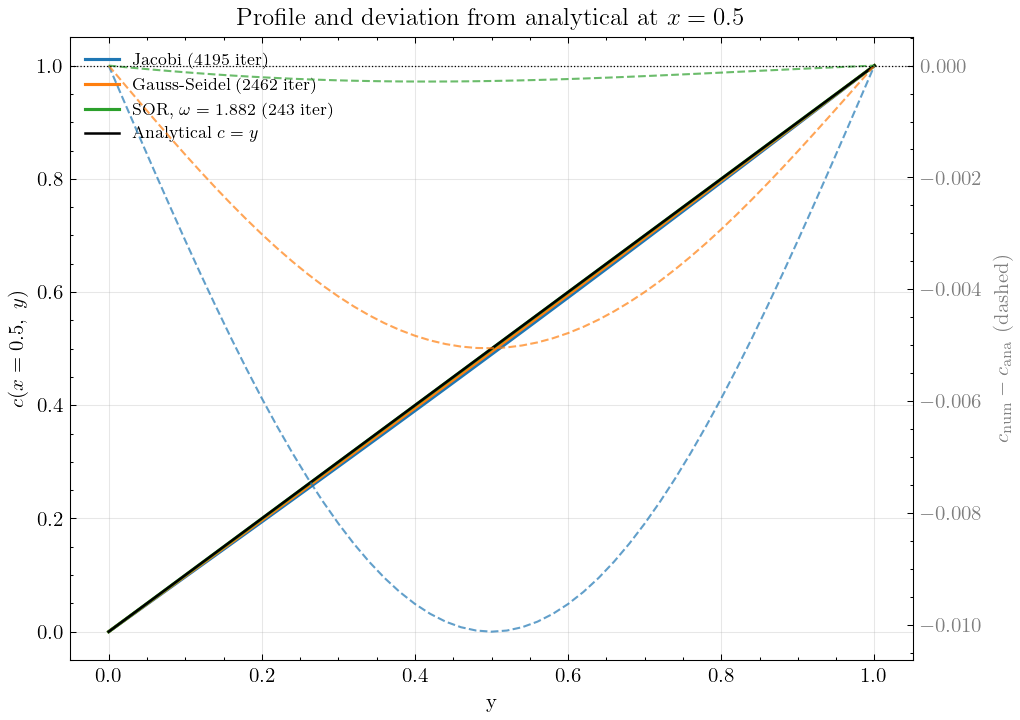
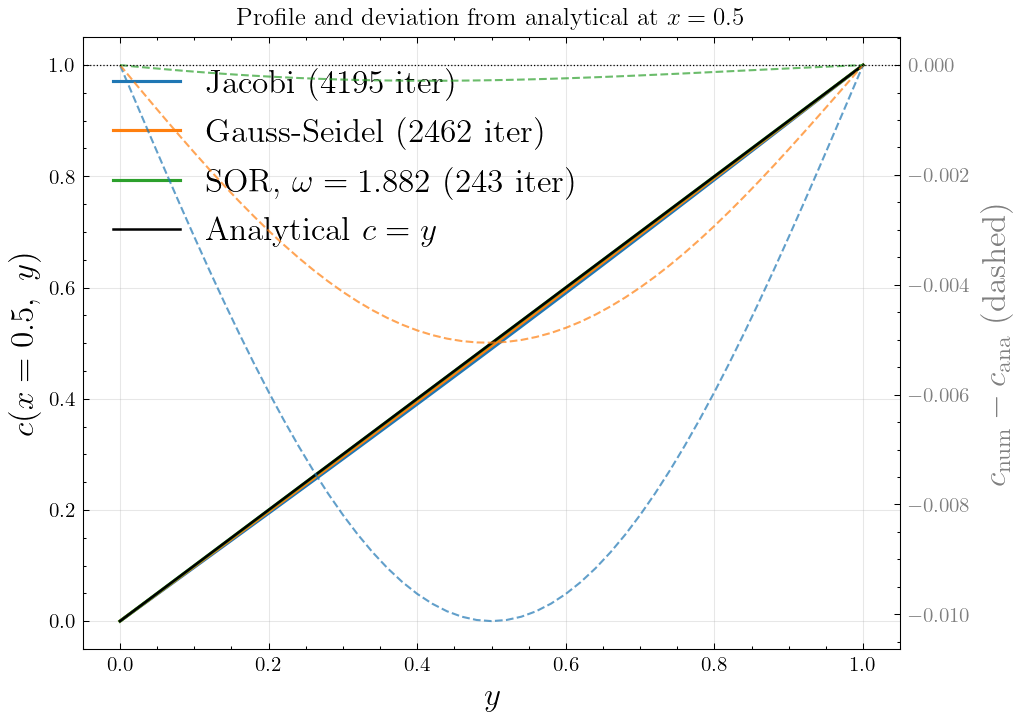
docs: improve readability

diff --git a/scripts/a1_6_iterative_methods.py b/scripts/a1_6_iterative_methods.py
@@ -110,10 +110,10 @@ ax.plot(
 ax.plot(
     grid.y, c_analytical, "--", color="black", linewidth=1.5, label="Analytical $c = y$"
 )
-ax.set_xlabel("y")
-ax.set_ylabel("c(x = 0.5, y)")
-ax.set_title("Profile comparison at x = 0.5")
-ax.legend()
+ax.set_xlabel("$y$", fontsize=16)
+ax.set_ylabel("$c(x = 0.5, y)$", fontsize=16)
+ax.set_title("Profile comparison at $x = 0.5$")
+ax.legend(fontsize=20)
 ax.grid(True, alpha=0.3)
 
 # Right: deviation from analytical
@@ -140,10 +140,10 @@ ax.plot(
     label=f"SOR, $\\omega={omega:.3f}$ ({res_sor.n_iter} iter)",
 )
 ax.axhline(0, color="black", linewidth=0.8, linestyle="--")
-ax.set_xlabel("y")
-ax.set_ylabel("$c_{\\mathrm{numerical}} - c_{\\mathrm{analytical}}$")
-ax.set_title("Deviation from analytical at x = 0.5")
-ax.legend()
+ax.set_xlabel("$y$", fontsize=16)
+ax.set_ylabel("$c_{\\mathrm{numerical}} - c_{\\mathrm{analytical}}$", fontsize=16)
+ax.set_title("Deviation from analytical at $x = 0.5$")
+ax.legend(fontsize=20)
 ax.grid(True, alpha=0.3)
 
 plt.tight_layout()
@@ -178,12 +178,12 @@ for profile, label, color in zip(profiles, labels, colors):
 ax_left.plot(grid.y, c_analytical, "k-", linewidth=1.2, label="Analytical $c = y$")
 ax_right.axhline(0, color="black", linewidth=0.6, linestyle=":")
 
-ax_left.set_xlabel("y")
-ax_left.set_ylabel("$c(x=0.5,\\ y)$")
-ax_right.set_ylabel("$c_{\\mathrm{num}} - c_{\\mathrm{ana}}$ (dashed)", color="gray")
+ax_left.set_xlabel("$y$", fontsize=16)
+ax_left.set_ylabel("$c(x=0.5,\\ y)$", fontsize=16)
+ax_right.set_ylabel("$c_{\\mathrm{num}} - c_{\\mathrm{ana}}$ (dashed)", color="gray", fontsize=16)
 ax_right.tick_params(axis="y", labelcolor="gray")
 ax_left.set_title("Profile and deviation from analytical at $x = 0.5$")
-ax_left.legend(loc="upper left", fontsize=8)
+ax_left.legend(loc="upper left", fontsize=16)
 ax_left.grid(True, alpha=0.3)
 
 plt.tight_layout()
@@ -257,16 +257,17 @@ ax_right4.plot(
 )
 ax_right4.axhline(1.0, color="black", linewidth=0.6, linestyle=":")
 
-ax_left4.set_xlabel("y")
-ax_left4.set_ylabel("$c(x=0.5,\\ y)$")
+ax_left4.set_xlabel("$y$", fontsize=16)
+ax_left4.set_ylabel("$c(x=0.5,\\ y)$", fontsize=16)
 ax_right4.set_ylabel(
     r"$(c_{\mathrm{num}} - c_{\mathrm{ana}})\ /\ (\mathrm{Jacobi\ deviation})$ (dashed)",
     color="gray",
+    fontsize=16,
 )
 ax_right4.tick_params(axis="y", labelcolor="gray")
 ax_left4.set_title("Profile and deviation ratio relative to Jacobi at $x = 0.5$")
-ax_left4.legend(loc="upper left", fontsize=8)
-ax_right4.legend(loc="lower right", fontsize=8)
+ax_left4.legend(loc="upper left", fontsize=16)
+ax_right4.legend(loc="lower right", fontsize=16)
 ax_left4.grid(True, alpha=0.3)
 
 plt.tight_layout()
@@ -299,10 +300,10 @@ ax2.axhline(
     tol, color="black", linewidth=0.8, linestyle="--", label=f"Tolerance ({tol:.0e})"
 )
 
-ax2.set_xlabel("Iteration k")
-ax2.set_ylabel(r"$\delta_k$ (max-norm)")
+ax2.set_xlabel("Iteration $k$", fontsize=16)
+ax2.set_ylabel(r"$\delta_k$ (max-norm)", fontsize=16)
 ax2.set_title("Convergence comparison of iterative methods")
-ax2.legend()
+ax2.legend(fontsize=20)
 ax2.grid(True, which="both", alpha=0.3)
 
 plt.tight_layout()

diff --git a/scripts/a1_6_iterative_convergence.py b/scripts/a1_6_iterative_convergence.py
@@ -4,9 +4,15 @@ Shows how the convergence measure delta (Eq. 14) depends on the number
 of iterations k for each method. Log-lin plot (semilogy).
 """
 
+import shutil
 import numpy as np
 import matplotlib.pyplot as plt
 from pathlib import Path
+import scienceplots  # noqa: F401 (registers styles on import)
+
+styles = ["science"] if shutil.which("latex") else ["science", "no-latex"]
+plt.style.use(styles)
+plt.rcParams.update({"font.size": 14})
 
 from scicomp3.core.grid import Grid2D
 from scicomp3.pde.diffusion import apply_diffusion_bc
@@ -41,7 +47,7 @@ for sor, omega in zip(sor_list, omega_list):
     print(f"SOR (ω={omega:.1f}):  {sor.n_iter} iterations, final delta={sor.delta_history[-1]:.2e}")
 
 # Plot
-fig, ax = plt.subplots(figsize=(8, 5))
+fig, ax = plt.subplots(figsize=(3.5, 3))
 
 ax.semilogy(range(1, jacobi.n_iter + 1), jacobi.delta_history,
             label=f"Jacobi ({jacobi.n_iter} iter)")
@@ -52,10 +58,10 @@ for sor, omega in zip(sor_list, omega_list):
             label=f"SOR, $\\omega={omega:.1f}$ ({sor.n_iter} iter)")
 
 ax.axhline(tol, color="gray", linestyle=":", linewidth=0.8, label=rf"$\epsilon = {tol}$")
-ax.set_xlabel("Iteration k")
-ax.set_ylabel(r"$\delta_k = \max_{i,j} |c^{k+1}_{i,j} - c^{k}_{i,j}|$")
-ax.set_title(f"Convergence comparison (N = {N})")
-ax.legend()
+ax.set_xlabel("Iteration $k$", fontsize=16)
+ax.set_ylabel(r"$\delta_k = \max_{i,j} |c^{k+1}_{i,j} - c^{k}_{i,j}|$", fontsize=16)
+ax.set_title(f"Convergence comparison ($N = {N}$)")
+ax.legend(fontsize=7)
 ax.grid(True, which="both", alpha=0.3)
 
 plt.tight_layout()

diff --git a/scripts/a1_6_objects_k_impact.py b/scripts/a1_6_objects_k_impact.py
@@ -118,13 +118,13 @@ for bars in (bars1, bars2, bars3):
             fontsize=6,
         )
 
-ax.set_ylabel("Iterations to convergence")
+ax.set_ylabel("Iterations to convergence", fontsize=16)
 ax.set_title(
     f"Impact of objects on iteration count ($N={N}$, $\\varepsilon={tol:.0e}$)"
 )
 ax.set_xticks(x)
-ax.set_xticklabels(methods)
-ax.legend()
+ax.set_xticklabels(methods, fontsize=14)
+ax.legend(fontsize=20)
 ax.grid(True, axis="y", alpha=0.3)
 
 plt.tight_layout()
